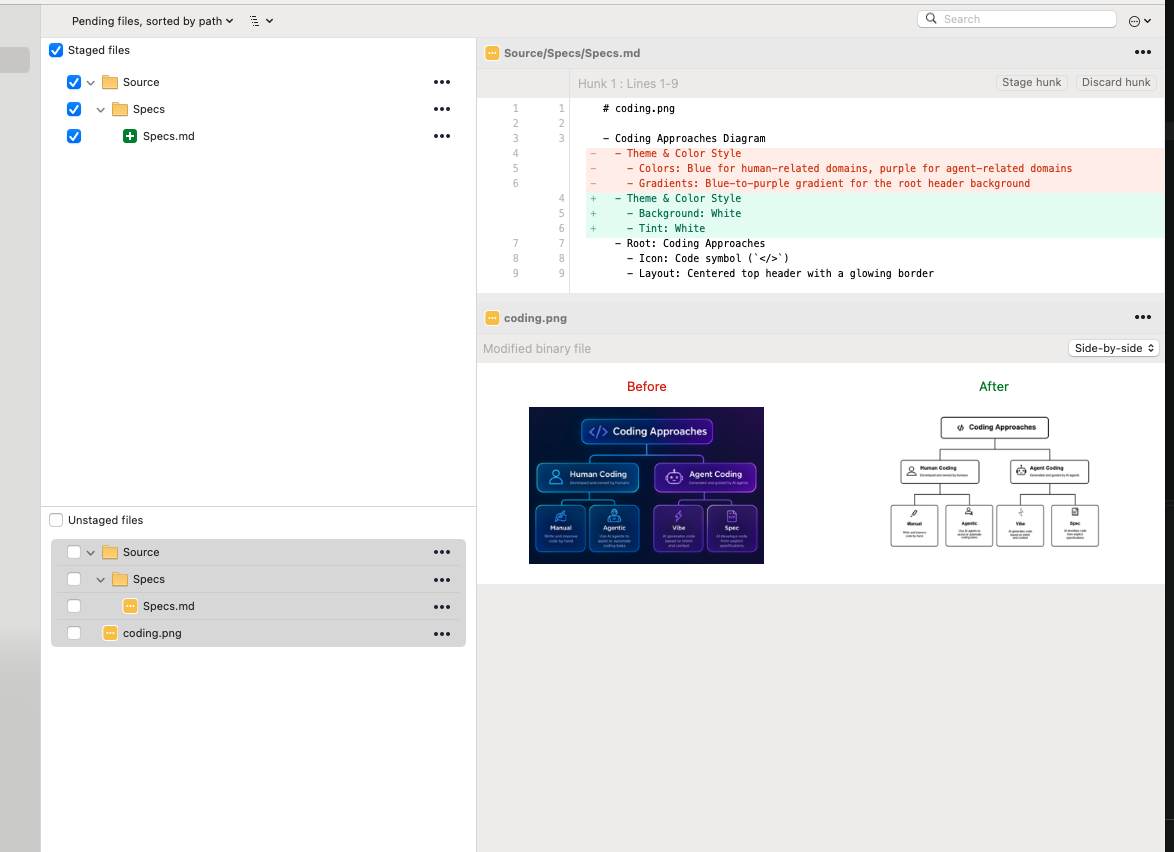
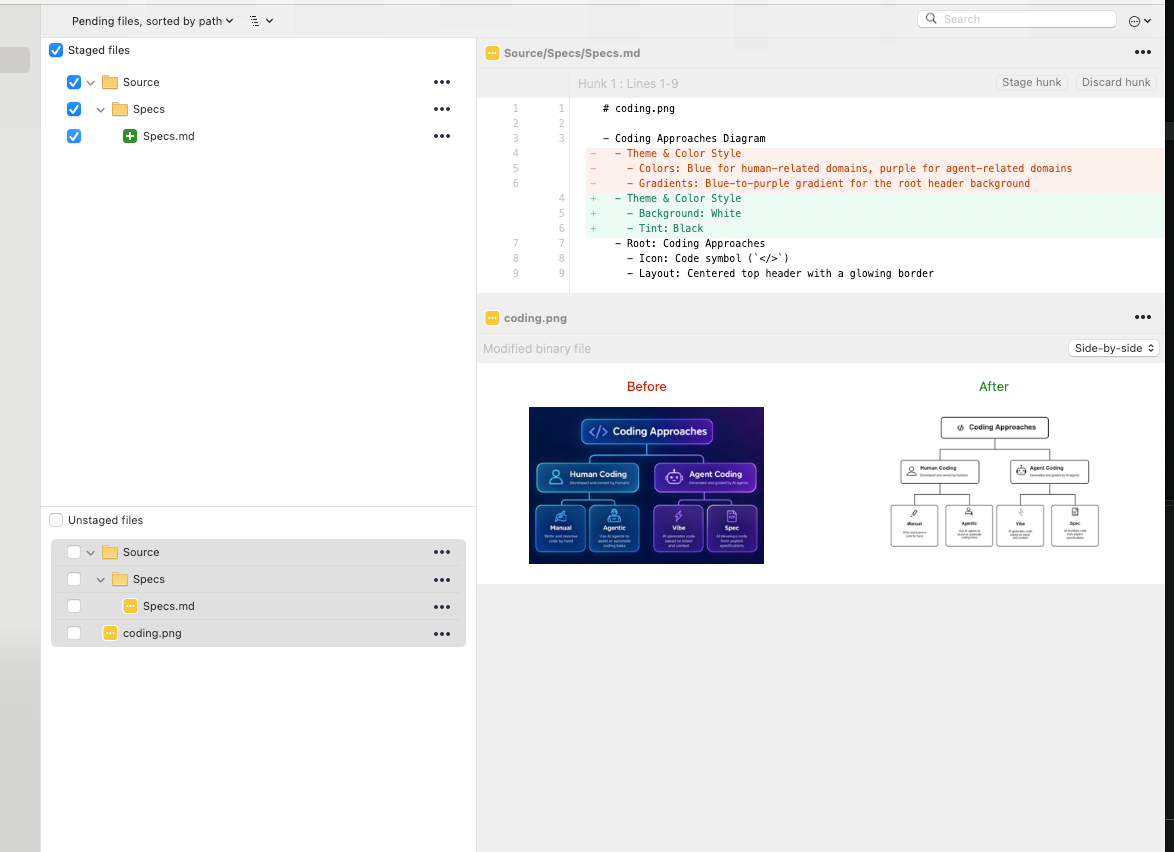
Refinement.

diff --git a/Source/Specs/Specs.md b/Source/Specs/Specs.md
@@ -3,7 +3,7 @@
 - Coding Approaches Diagram
   - Theme & Color Style
     - Background: White
-    - Tint: White
+    - Tint: Black 
   - Root: Coding Approaches
     - Icon: Code symbol (`</>`)
     - Layout: Centered top header with a glowing border
